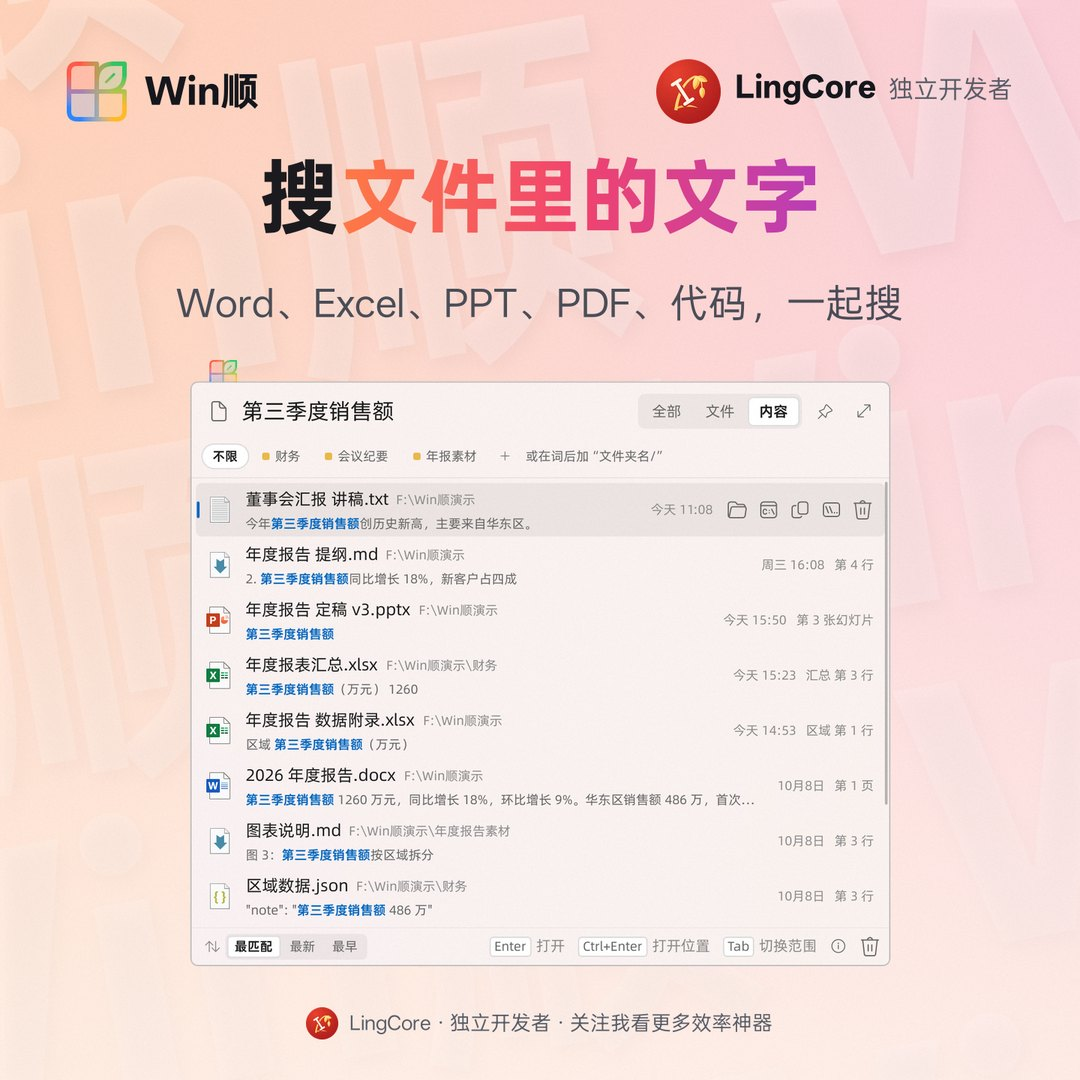
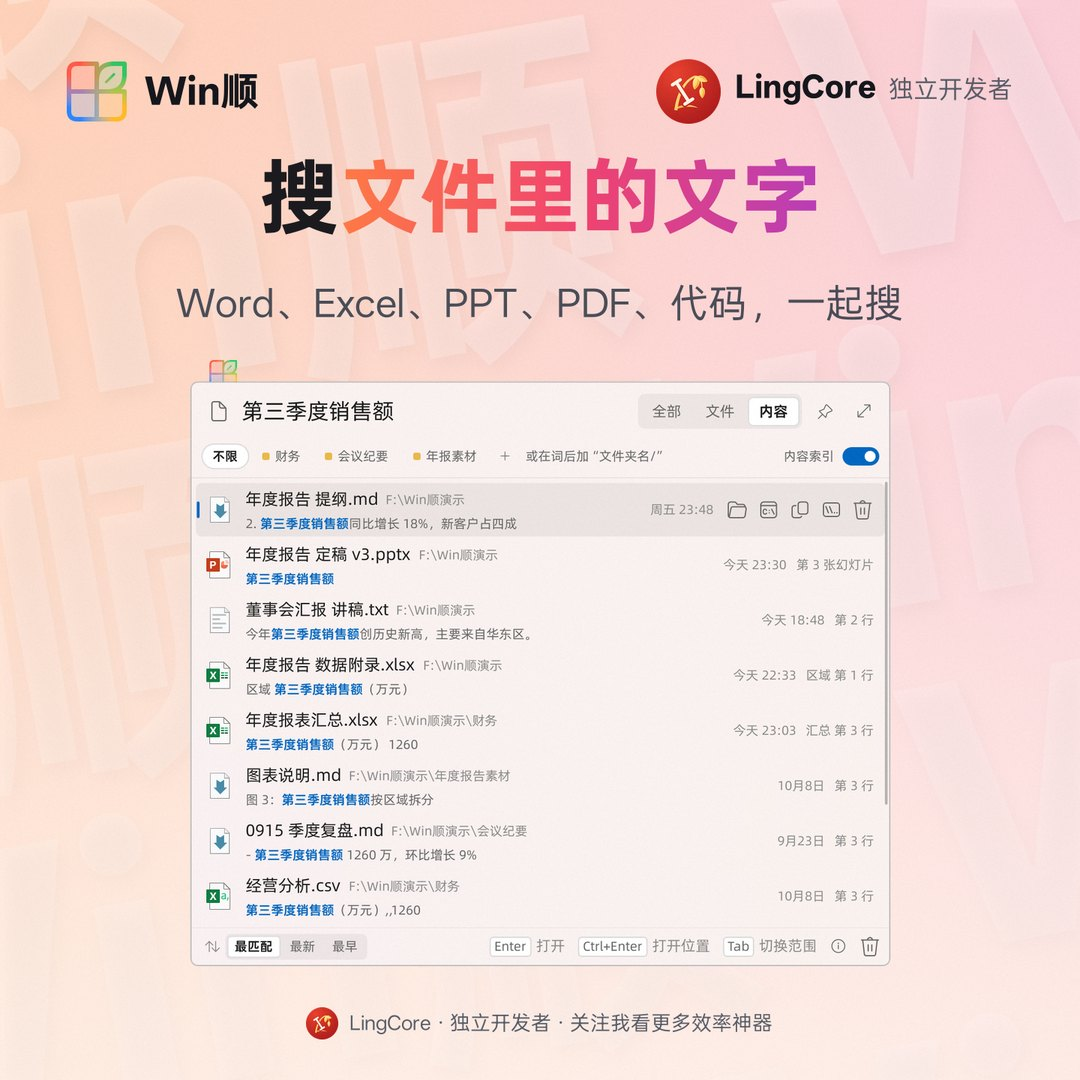
README: system switches and the built-in screenshot tool
A new switches.jpg next to the places picture, and a bullet for each
feature in Chinese and English. content.jpg and folder.jpg reshot: the
内容 strip now carries the content index switch. The other pictures
were reshot too but showed no change worth committing.

diff --git a/README.md b/README.md
@@ -49,6 +49,7 @@
   <img src="docs/images/foldermenu.jpg" width="49%" alt="资源管理器里双击空白处：收藏、最近、开着的文件夹 / double-click empty space in Explorer for favorite, recent and open folders">
   <img src="docs/images/apps.jpg" width="49%" alt="拼音搜应用：guanliqi 找到任务管理器 / launch apps by pinyin">
   <img src="docs/images/places.jpg" width="49%" alt="直达 Windows 设置：shipeiqi 找到网络连接 / open Windows settings and Control Panel items">
+  <img src="docs/images/switches.jpg" width="49%" alt="系统开关：行尾显示现在的状态，回车就地切换；音量 30、保持唤醒 1小时一步到位 / system switches: the live state on the row, Enter flips it; set the volume or keep awake in one step">
   <img src="docs/images/web.jpg" width="49%" alt="网页搜索：zhihu 显卡、bilibili、京东一步到位 / web search keywords">
   <img src="docs/images/favorites.jpg" width="49%" alt="收藏夹：常去的文件夹排在最前，关键词直达 / favorites with keywords">
   <img src="docs/images/plugins.jpg" width="49%" alt="插件：计算器、单位换算、颜色 / plugins: calculator, unit conversion, colors">
@@ -120,6 +121,7 @@
 
 - **应用**：开始菜单里的所有应用都能搜，含 Microsoft Store 应用。名称、拼音、首字母（`vsc`）、程序名（`winword`）都行；`Ctrl+Shift+Enter` 以管理员身份运行。
 - **系统设置**：约 1200 个 Windows 设置页和控制面板项。`shipeiqi`、“网卡”、`ncpa.cpl` 都能打开网络连接；另外补了组策略、磁盘管理、hosts、AppData 等开始菜单里没有的。
+- **系统开关**：深色模式、显示隐藏的文件、显示文件扩展名、蓝牙、WLAN、音量和静音、保持唤醒，行尾直接显示现在的状态；`Enter` 就地切换，搜索框不关，`Ctrl+Enter` 打开设置页。“关蓝牙”“静音”“音量 30”一步到位，“保持唤醒 1小时”到点自动结束。
 
 #### 🌐 网页搜索 · ⭐ 收藏夹 · 🧩 插件
 
@@ -164,6 +166,7 @@
 - **拖出图片**：按住一张图片拖到文件夹里，就存成 PNG 文件。
 - **整理**：固定、分组、多选按顺序合并粘贴，钉住后可以一条接一条地往表格里填；固定的可以排在最前，顺序可以拖动或用 `Ctrl+↑`/`↓` 自己排。
 - **隐私**：密码管理器复制的密码不记录，历史只存在本机。
+- **截图**（默认关，在设置 › 插件里打开）：快捷键或 `PrtScn` 截图，点选窗口、按钮或拖出一块；`Enter` 复制，截图进剪贴板历史，图里的字也能搜；`F3` 贴在屏幕上，还能识别文字。搜索框里打 `jt` 加空格，按图里的字找截过的图。
 
 #### 🔎 任务栏搜索框
 
@@ -304,6 +307,7 @@ It reads the NTFS master file table (MFT) directly, indexing three million files
 - 🚀 **Apps and settings**
   - **Apps**: everything in the Start menu (Store apps included), by name, pinyin, initials (`vsc`) or program file (`winword`).
   - **Settings**: about 1,200 Windows settings pages and Control Panel items (`ncpa.cpl`, “network adapter”), plus Group Policy, Disk Management, hosts, AppData and more.
+  - **Switches**: dark mode, hidden files, file extensions, Bluetooth, WLAN, volume and mute, keep awake, each with its live state at the end of its row; `Enter` flips it in place and the box stays open, `Ctrl+Enter` opens its settings page. `bluetooth off`, `mute` and `volume 30` act in one step; `awake 1h` keeps the PC awake for an hour.
 - 🌐 **Web search**: `zhihu 显卡`, `baidu 天气`: a keyword and a space search that site. Ten Chinese sites are built in; add your own with `%s` in the URL, and import or export the list and icons. The site's search suggestions show below as you type (Enter searches one, Tab puts it in the box), and a site's icon can be an SVG file or pasted SVG code.
 - ⭐ **Favorites**: right-click → Add to favorites. They come first when the box is empty; give one a keyword to open it, and `Tab` searches inside a favorite folder.
 - 🧩 **Plugins**
@@ -330,6 +334,7 @@ It reads the NTFS master file table (MFT) directly, indexing three million files
   - **Paste**: double-click or `Enter`, or one click as in Windows' own history (an option); larger picture thumbnails as another.
   - **Organize**: pins, groups, multi-paste in order, and `Alt+1`…`Alt+9`; pinned items can come first, and the order is yours to drag or move with `Ctrl+↑`/`↓`.
   - **Privacy**: passwords from password managers are not kept, and the history stays on your PC.
+  - **Screenshots** (off by default; turn it on in Settings › Plugins): a shortcut or `PrtScn`, then click a window or a control, or drag an area; `Enter` copies it, into the clipboard history too, where the words in it can be searched; `F3` pins it on the screen, and its text can be read out. `jt` and a space in the search box list past screenshots by the text in them.
 - 🔎 **Taskbar search box**: WinShun's own search box on the Windows 11 taskbar (a pinned button on Windows 10), optionally right of Start where Windows' own box sits (alongside TranslucentTB too); a whole box, its icon and label, or its icon alone, as Windows' own search. It works on its own or alongside Windows search; hiding Windows search, taking over `Win+S`, and searching as you type in the Start menu are all optional.
 - 🤖 **AI assistants (MCP)**
   - **What**: WinShun is an MCP server. Claude Desktop, Claude Code, Cursor and VS Code connect in one click and search file names, file contents and recent changes.
